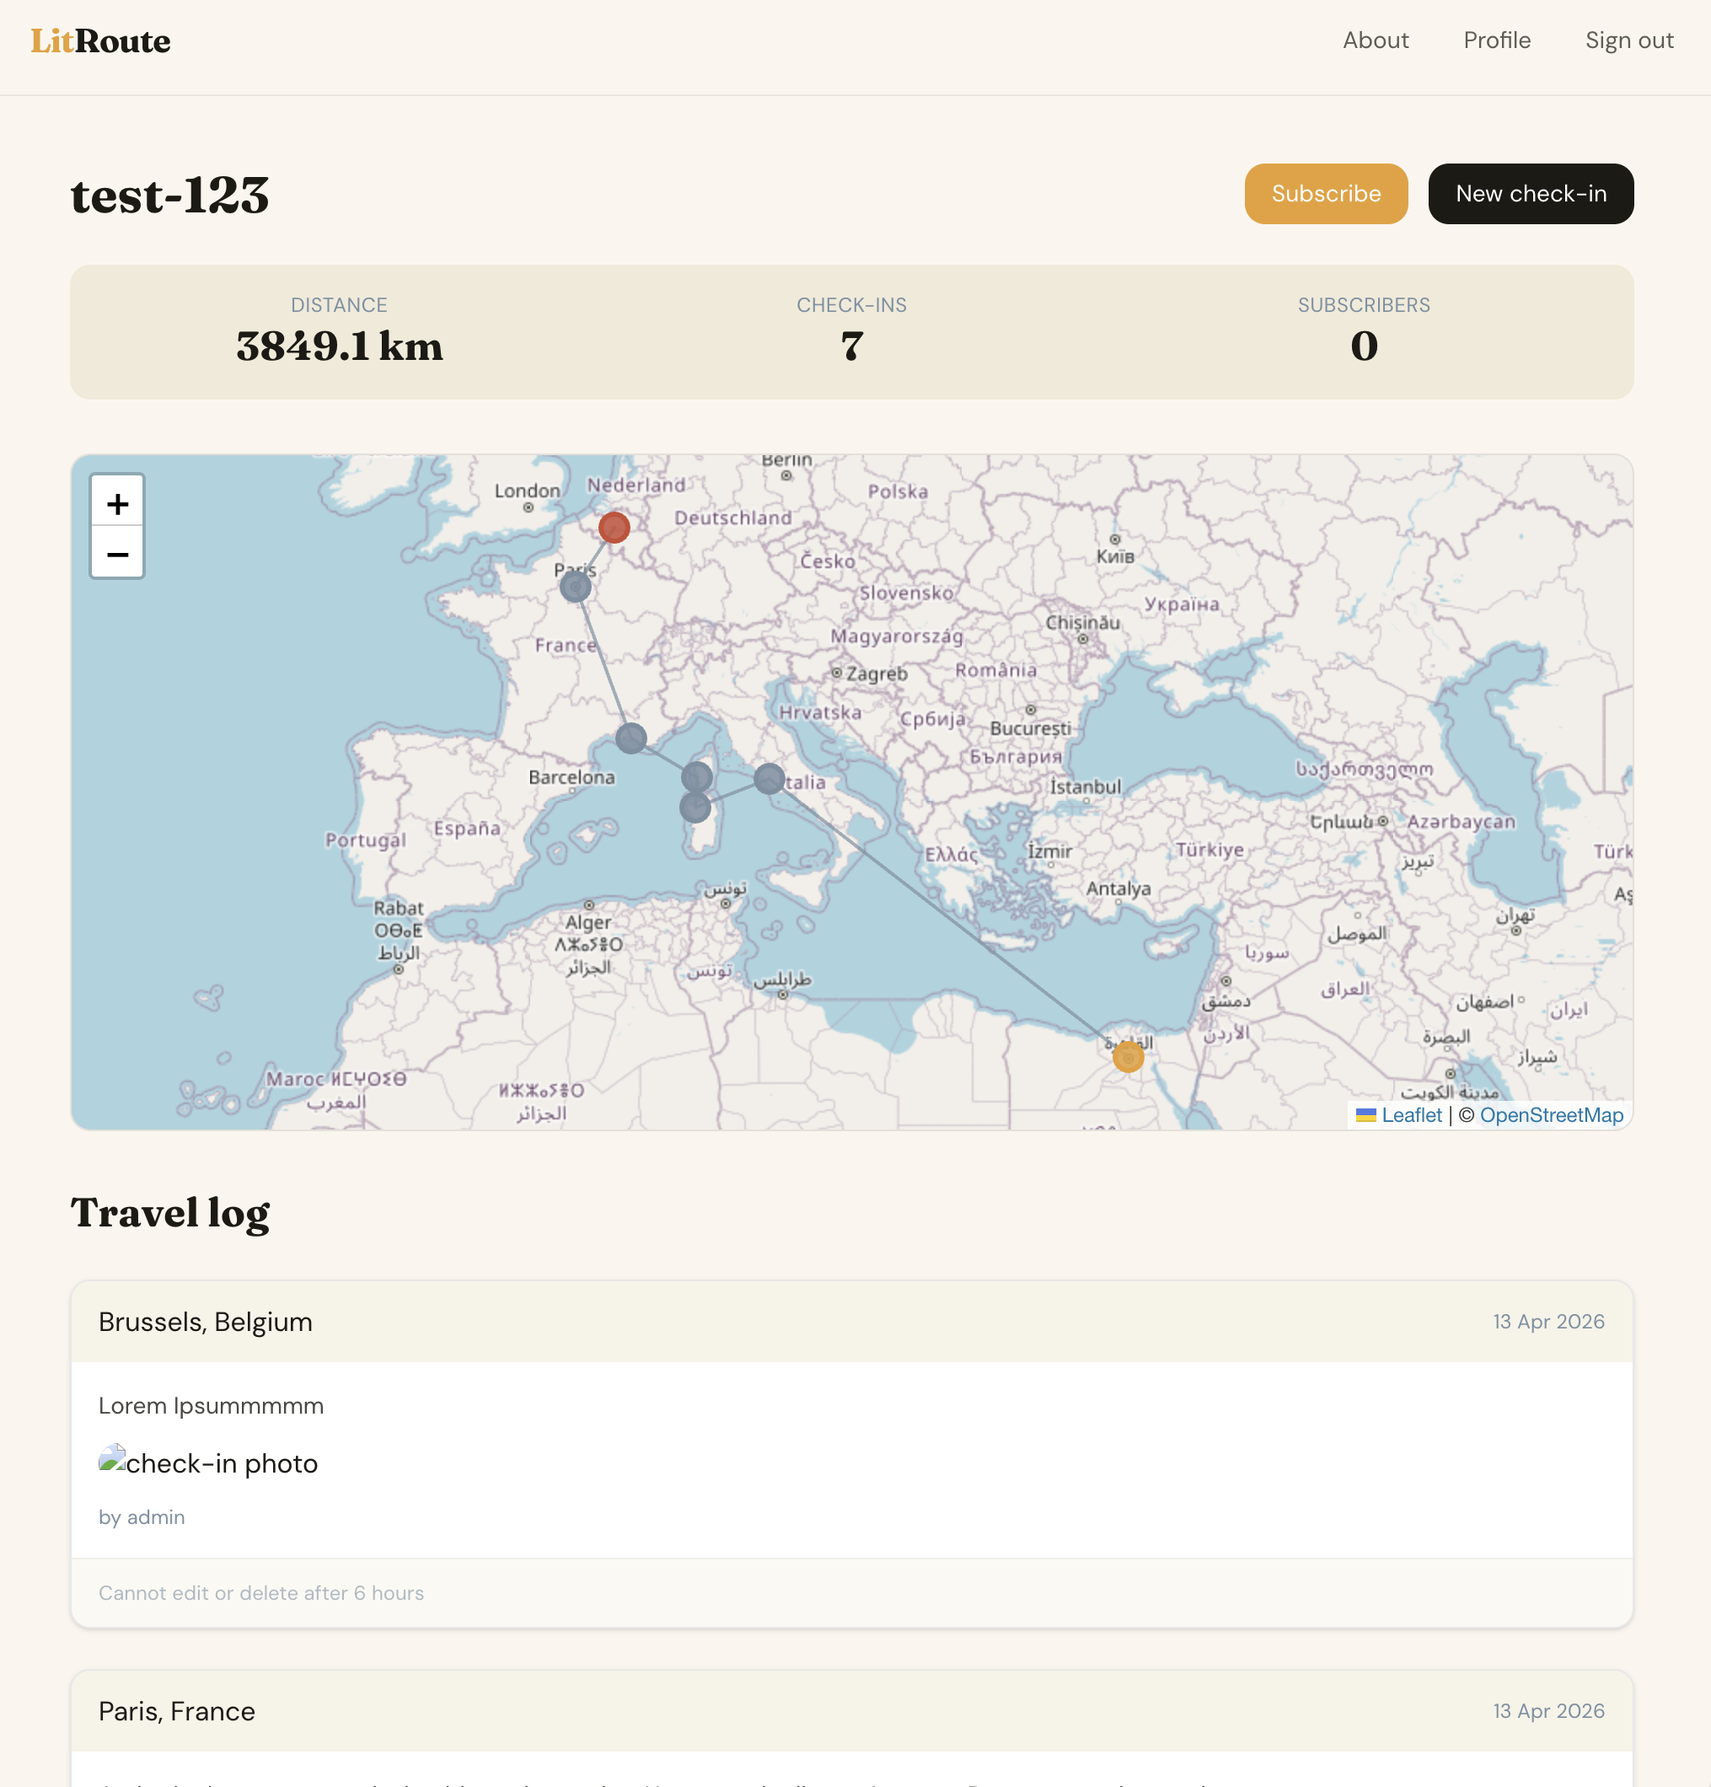
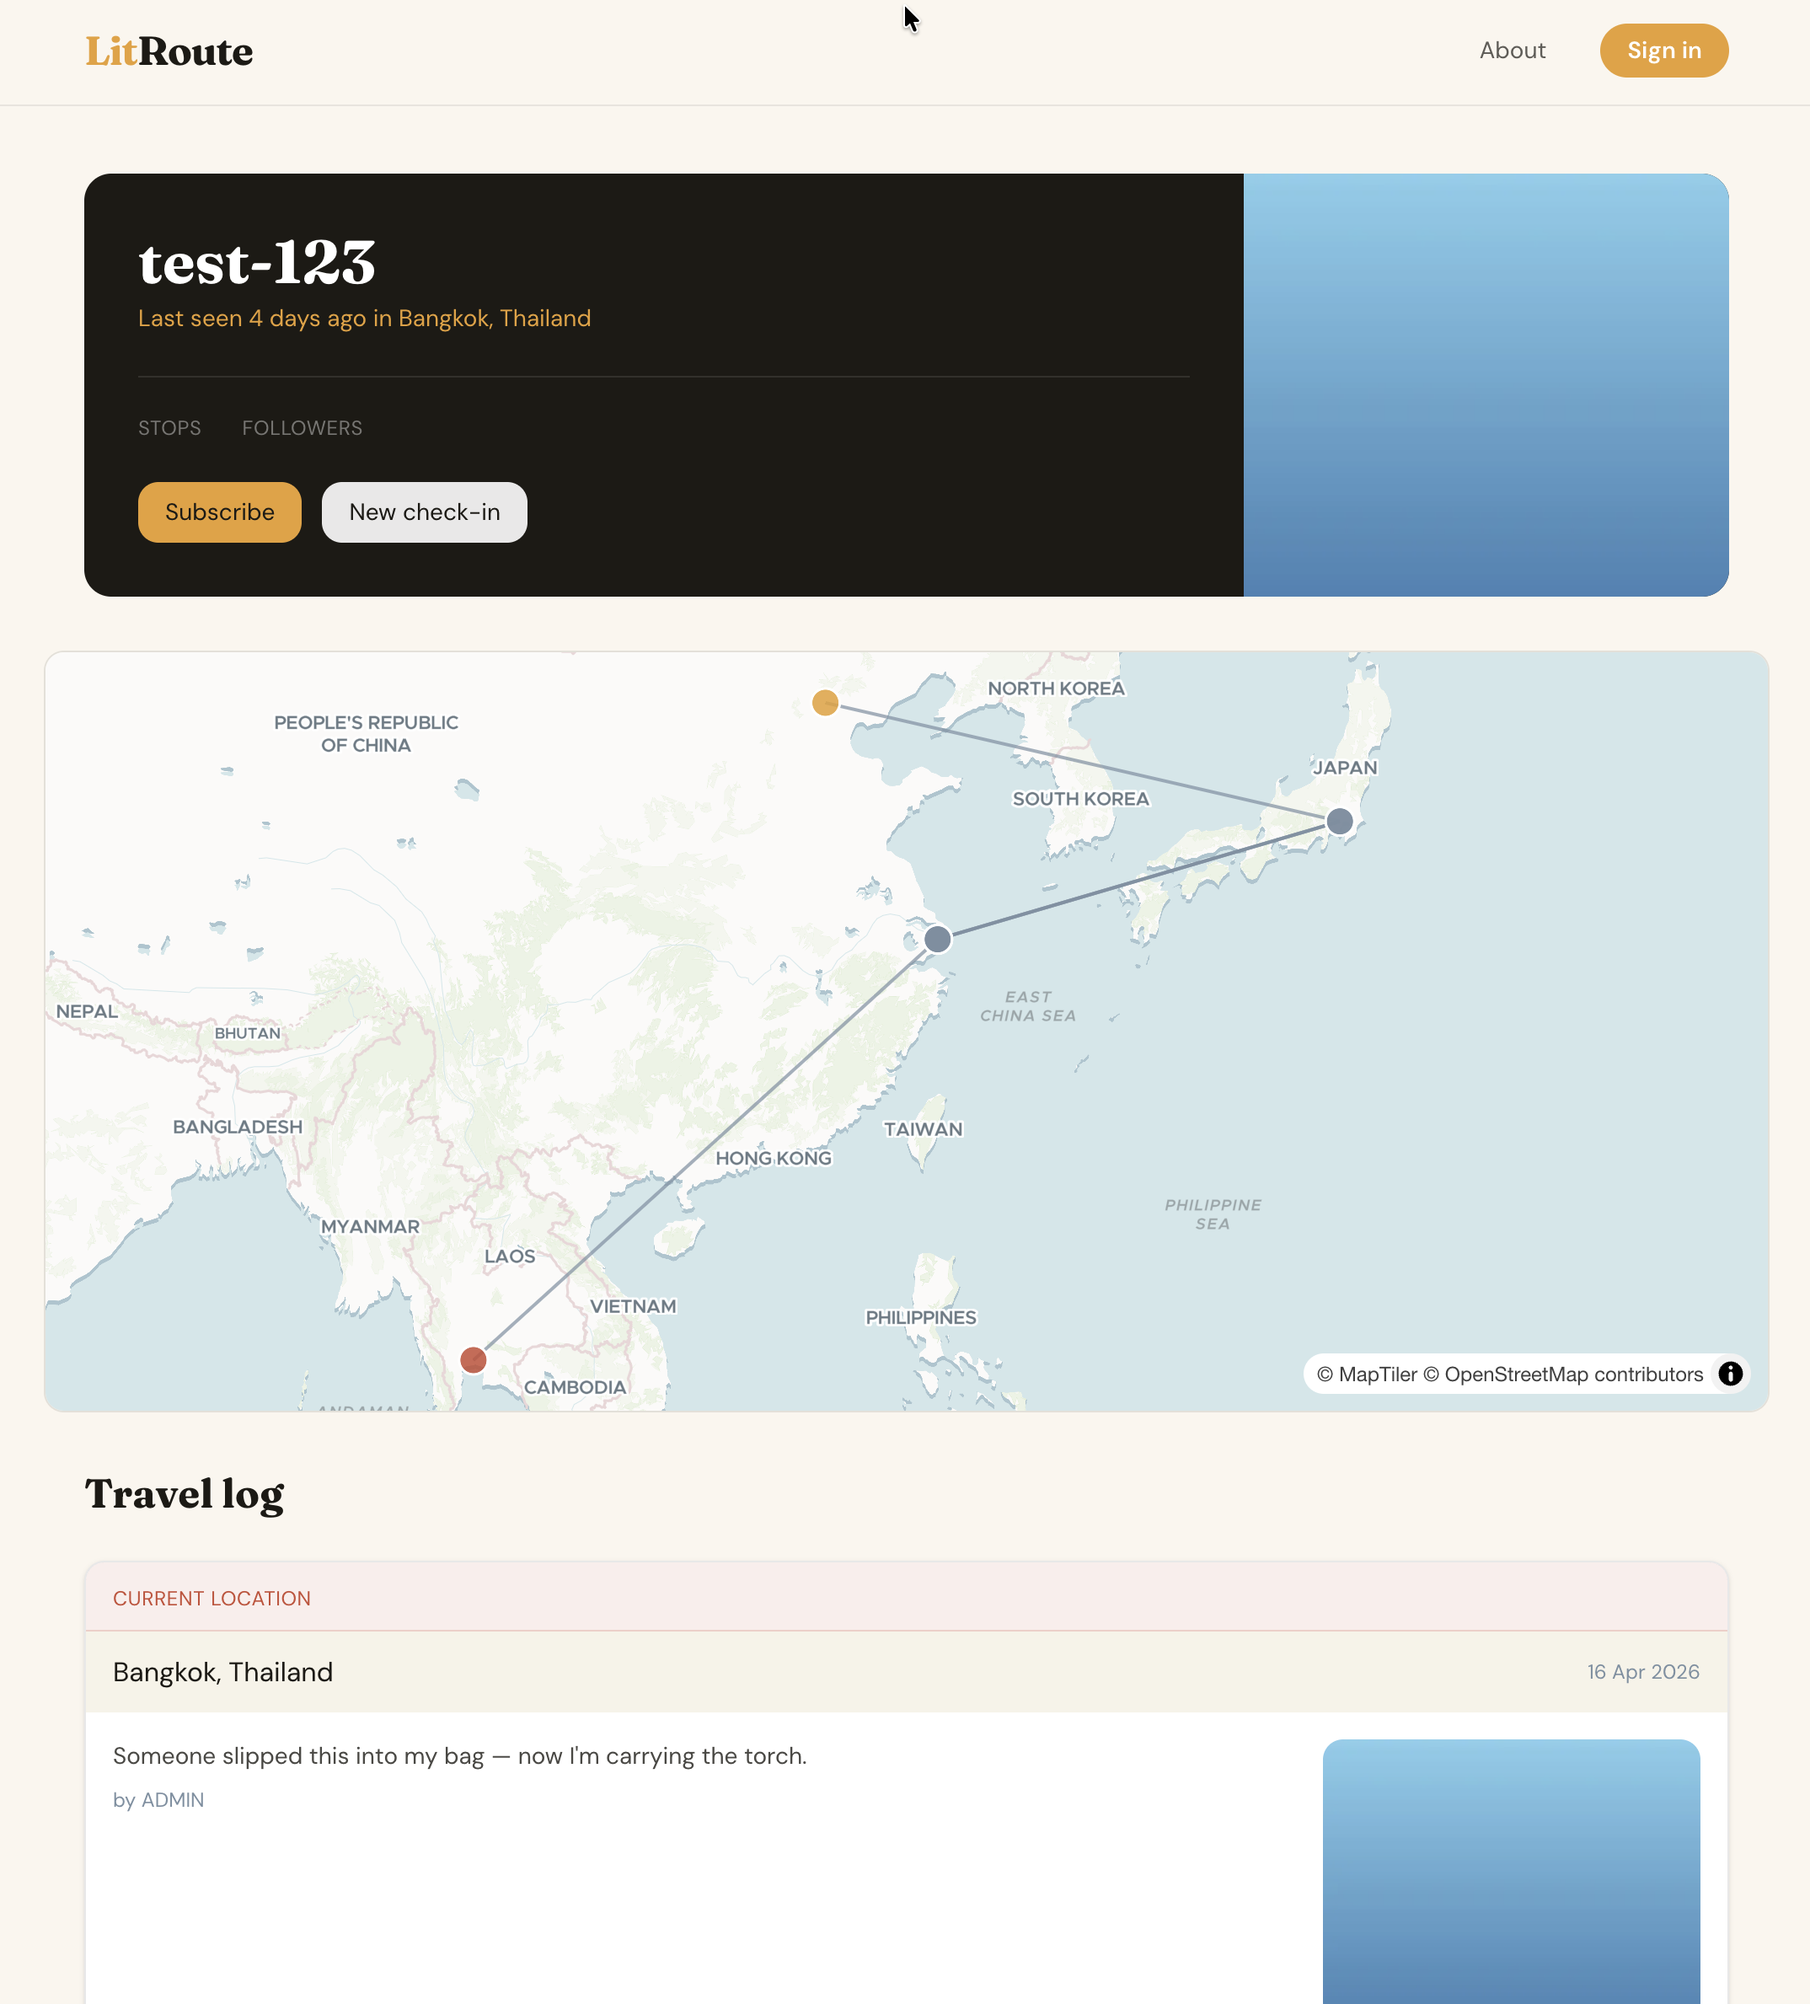
update screenshots

diff --git a/README.md b/README.md
@@ -17,7 +17,8 @@ Track a lighter as it travels between people, places, and stories.
 [![Celery](https://img.shields.io/badge/Celery-37814A?logo=celery&logoColor=white)](https://docs.celeryq.dev)
 [![Docker](https://img.shields.io/badge/Docker-2496ED?logo=docker&logoColor=white)](https://docker.com)
 
-![LitRoute screenshot](docs/images/example_log.png)
+![LitRoute homepage screenshot](docs/images/landing.png)
+![LitRoute travel log screenshot](docs/images/example_log.png)
 
 ## Local development
 
